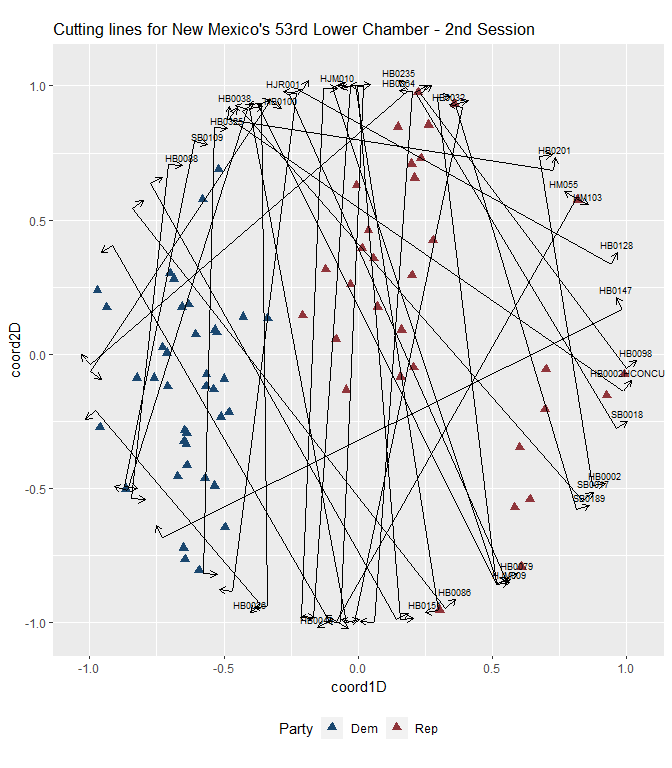
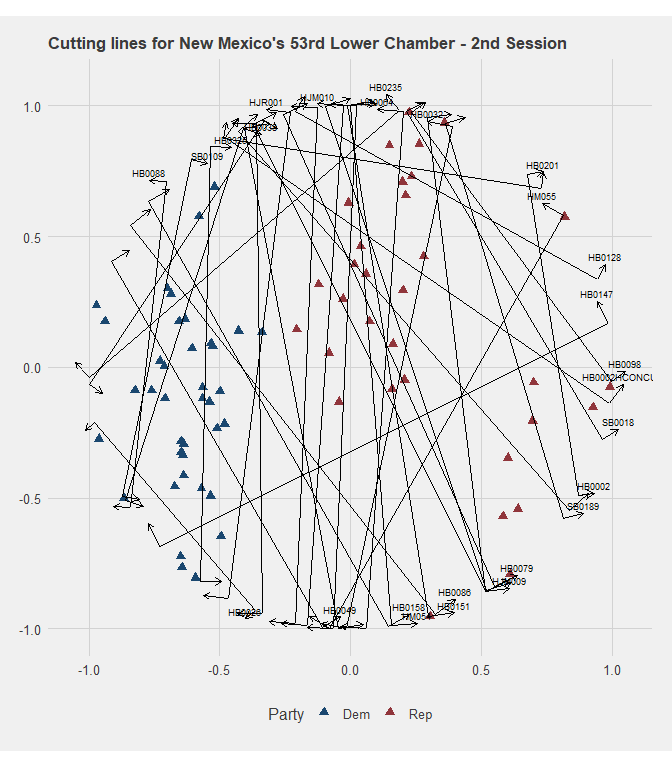
re

diff --git a/README.md b/README.md
@@ -74,7 +74,7 @@ resultd2 <- wnominate::wnominate (datRC,
 ## 
 ## 
 ## W-NOMINATE estimation completed successfully.
-## W-NOMINATE took 2.47 seconds to execute.
+## W-NOMINATE took 2.49 seconds to execute.
 ```
 
 ``` r
@@ -91,6 +91,7 @@ house_data <- resultd2$legislators %>% #May need to remove NAs
 
 ``` r
 library(ggthemes)
+
 house_data%>%
   ggplot(aes(x=coord1D, y=coord2D)) +
   geom_point(aes(color = Party),
@@ -101,15 +102,13 @@ house_data%>%
   theme(legend.position = 'bottom', 
         plot.title = element_text(size=13), 
         axis.title = element_text(size=10)) +
-  ylab ("Dimension 2") +
-  xlab ("Dimension 1") +
   geom_text(aes(label=Representative), 
             size=2.5, 
             check_overlap = TRUE, 
             hjust = 0, 
             nudge_x = 0.03)+
   labs(title="New Mexico 53rd House Roll Call - 2nd Session") +
-  coord_equal(ratio=1)
+  coord_equal(ratio=1) 
 ```
 
 ![](figure-markdown_github/unnamed-chunk-10-1.png)
@@ -117,7 +116,7 @@ house_data%>%
 Demonstrate how to extract cutting lines using `wnom_adds`.
 
 ``` r
-with_cuts <- wnomadds::wnom_adds_get_cutlines(resultd2, rollcall_obj =   datRC)
+with_cuts <- wnomadds::wnom_adds_get_cutlines(resultd2, rollcall_obj = datRC)
 ## Warning in FUN(newX[, i], ...): Couldn't solve for points on the unit circle!
 
 ## Warning in FUN(newX[, i], ...): Couldn't solve for points on the unit circle!
@@ -133,13 +132,13 @@ head(with_cuts)
 ## 4:        HB0026 -0.3645179 -0.97765640 -0.9311964 -0.2102093    1
 ## 5:        HB0027 -0.3375543 -0.35960803 -0.9413061  0.9331035    1
 ## 6:        HB0032  0.3891161 -0.01486458  0.9211887 -0.9998895   -1
-##          x_1a        y_1a        x_2a       y_2a
-## 1:  0.9209479 -0.48239478  0.72524892  0.7448917
-## 2:  1.0188058 -0.09721277 -0.45131972  0.9185457
-## 3:  0.9209479 -0.48239478  0.72524892  0.7448917
-## 4: -0.4026071 -0.96358797 -1.01574556 -0.2426009
-## 5: -0.3875508 -0.94189431 -0.40960457  0.9325152
-## 6:  0.3401862  0.93147811 -0.06379441 -0.9896001
+##          x_1a        y_1a       x_2a       y_2a
+## 1:  0.9329360 -0.48048319  0.7372370  0.7468033
+## 2:  1.0411715 -0.06484255 -0.4289541  0.9509159
+## 3:  0.9329360 -0.48048319  0.7372370  0.7468033
+## 4: -0.4005673 -0.96185329 -1.0137057 -0.2408663
+## 5: -0.4312748 -0.94240875 -0.4533285  0.9320008
+## 6:  0.2930622  0.94138776 -0.1109185 -0.9796905
 ```
 
 Plot legislators with cutting lines.
@@ -147,7 +146,7 @@ Plot legislators with cutting lines.
 ``` r
 ggplot () + 
   scale_colour_stata() + 
-  #theme_fivethirtyeight() +
+  theme_fivethirtyeight() +
   theme(plot.title = element_text(size=13),
         legend.position = 'bottom') +
   geom_point(data=house_data, 
@@ -172,3 +171,51 @@ ggplot () +
 ```
 
 ![](figure-markdown_github/unnamed-chunk-13-1.png)
+
+Cutting line selections.
+
+``` r
+select_cuts <- c("HM054")
+
+sub <- nmlegisdatr::nml_rollcall %>%
+  filter(Bill_ID %in% select_cuts) %>%
+  inner_join(house_data)
+## Joining, by = c("Chamber", "Representative")
+
+cut_sub <- subset(with_cuts, Bill_ID %in% select_cuts)
+```
+
+``` r
+sub %>%
+ggplot(aes(x=coord1D, y=coord2D)) +
+  geom_point(aes(color = Party_Vote, shape= Party_Vote, fill = Party_Vote),
+             size= 2.5) +
+  nmlegisdatr::nml_color_vote() +
+  nmlegisdatr::nml_fill_vote() +
+  nmlegisdatr::nml_shape_vote()+
+  theme(legend.position = 'bottom', 
+        plot.title = element_text(size=13), 
+        axis.title = element_text(size=10)) +
+  geom_text(aes(label=Representative), 
+            size=2.5, 
+            check_overlap = TRUE, 
+            hjust = 0, 
+            nudge_x = 0.03)+
+  geom_segment(data=cut_sub, 
+               aes(x = x_1, y = y_1, xend = x_2, yend = y_2)) +
+  geom_segment(data=cut_sub, 
+               aes(x = x_2, y = y_2, xend = x_2a, yend = y_2a), 
+               arrow = arrow(length = unit(0.2,"cm"))) +
+  geom_segment(data=cut_sub, 
+               aes(x = x_1, y = y_1, xend = x_1a, yend = y_1a), 
+               arrow = arrow(length = unit(0.2,"cm")))+
+  geom_text(data=cut_sub, 
+               aes(x = x_1a, y = y_1a, label = Bill_ID), 
+               size=2.5, 
+               nudge_y = 0.03,
+               check_overlap = TRUE) +
+  labs(title="New Mexico 53rd House Roll Call - 2nd Session") +
+  coord_equal(ratio=1) 
+```
+
+![](figure-markdown_github/unnamed-chunk-15-1.png)
